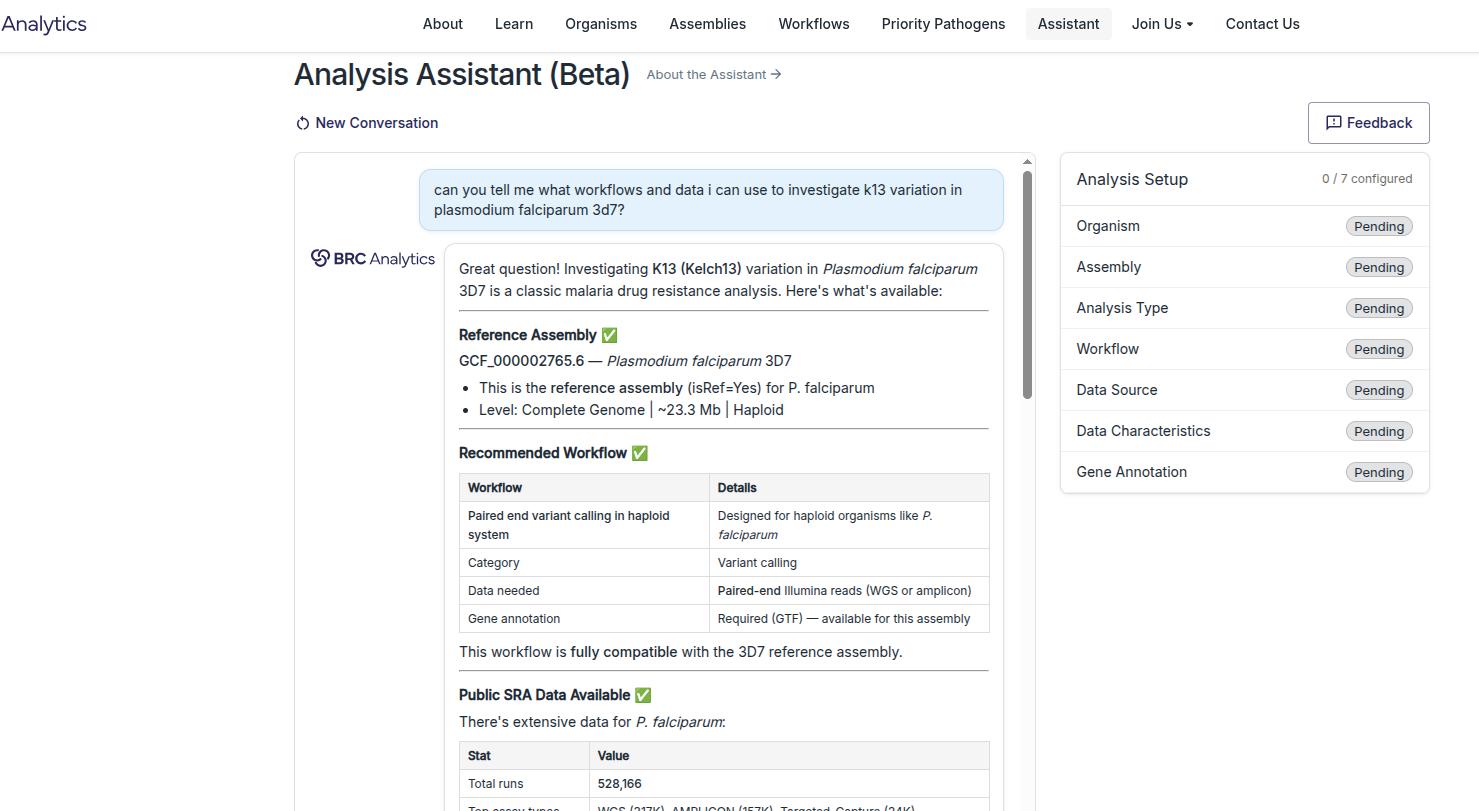
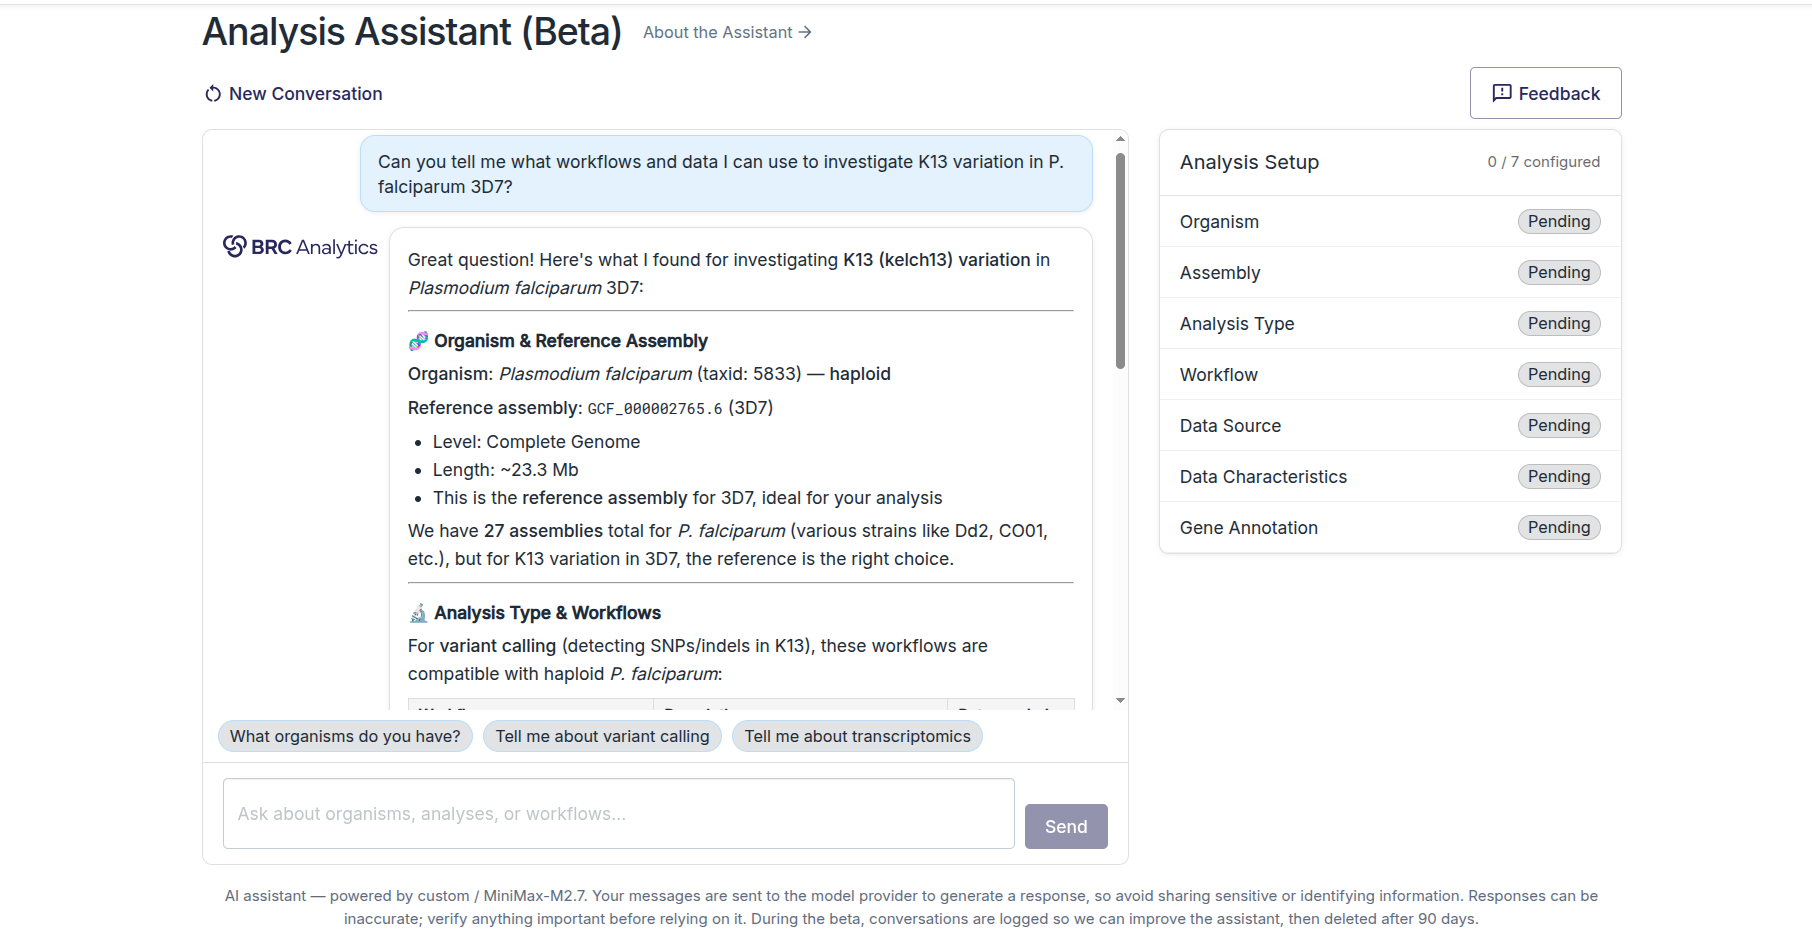
AI deck: swap in zoomed session captures, 2-slide vignette (ask + refine w/ checklist)

diff --git a/astmh-ai-tools-slides.html b/astmh-ai-tools-slides.html
@@ -736,62 +736,39 @@
 
     <!-- ============ 6. Assistant vignette ============ -->
     <section>
-      <div class="slide">
+      <div class="slide" style="padding-top: 45px;">
         <h2 class="slide-title" style="margin-bottom: 8px;">What a Session Looks Like</h2>
         <div class="title-divider" style="margin-bottom: 10px;"></div>
 
-        <div style="display: flex; align-items: center; gap: 24px;">
-          <div style="flex: 1; min-width: 0;">
-            <img src="assistant-session-1.png" alt="BRC Analysis Assistant session — K13 variation in P. falciparum" style="width: 100%; border: 1px solid #DDD; border-radius: 8px; box-shadow: 0 2px 12px rgba(0,0,0,0.08);" />
-          </div>
-          <p class="small" style="flex: 0 0 250px; margin: 0; font-size: 15px; line-height: 1.6;"><strong>A real captured session</strong> — a plain question about K13 variation in <em>P. falciparum</em> 3D7 returns the reference assembly, a compatible variant-calling workflow, and SRA data options.</p>
+        <div style="display: flex; flex-direction: column; align-items: center; gap: 14px;">
+          <img src="assistant-session-1.png" alt="BRC Analysis Assistant session — K13 variation in P. falciparum" style="display: block; margin: 0 auto; max-height: 540px; width: auto; max-width: 100%; border: 1px solid #DDD; border-radius: 8px; box-shadow: 0 2px 12px rgba(0,0,0,0.08);" />
+          <p class="small" style="margin: 0; font-size: 15px;"><strong>A real captured session</strong> — a plain question about K13 variation in <em>P. falciparum</em> 3D7 returns the organism, the right reference assembly out of 27, and compatible workflows — the setup checklist on the right tracks what's still to decide.</p>
         </div>
 
         <img src="brc-logo.png" class="slide-logo" alt="BRC Analytics" />
         <div class="slide-footer">Analysis Assistant</div>
       </div>
-      <aside class="notes">Real session, not a mock. Beat one: the opening question — 'what workflows and data can I use to investigate K13 variation in P. falciparum 3D7?' The assistant comes back with the 3D7 reference assembly, a paired-end variant-calling workflow built for haploid organisms, and notes there's extensive public SRA data. Point at the Analysis Setup checklist on the right — it fills in as the conversation goes.</aside>
+      <aside class="notes">Real session, actual site. The opening question — K13 variation in P. falciparum 3D7 — gets organism confirmation, the right reference assembly (of 27 available), and the start of the workflow recommendation. Point at the Analysis Setup panel: 0/7 configured at the start — it fills in as the conversation decides things. The powered-by line at the bottom is worth a sentence for the skeptics: the model is named, the data handling is stated.</aside>
     </section>
 
     <!-- ============ 7. Assistant vignette II ============ -->
     <section>
-      <div class="slide">
+      <div class="slide" style="padding-top: 45px;">
         <h2 class="slide-title" style="margin-bottom: 8px;">What a Session Looks Like</h2>
         <div class="title-divider" style="margin-bottom: 10px;"></div>
 
-        <div style="display: flex; align-items: center; gap: 24px;">
-          <div style="flex: 1; min-width: 0;">
-            <img src="assistant-session-2.png" alt="BRC Analysis Assistant — follow-up on MalariaGEN BioProject" style="width: 100%; border: 1px solid #DDD; border-radius: 8px; box-shadow: 0 2px 12px rgba(0,0,0,0.08);" />
-          </div>
-          <p class="small" style="flex: 0 0 250px; margin: 0; font-size: 15px; line-height: 1.6;"><strong>You can keep asking</strong> — for K13 it recommends amplicon and targeted-capture data and names the BioProjects; a follow-up (&ldquo;is PRJEB2136 MalariaGEN?&rdquo;) gets a sourced answer.</p>
+        <div style="display: flex; flex-direction: column; align-items: center; gap: 14px;">
+          <img src="assistant-session-2.png" alt="BRC Analysis Assistant — small test set request, checklist filling in" style="display: block; margin: 0 auto; max-height: 540px; width: auto; max-width: 100%; border: 1px solid #DDD; border-radius: 8px; box-shadow: 0 2px 12px rgba(0,0,0,0.08);" />
+          <p class="small" style="margin: 0; font-size: 15px;"><strong>And refine</strong> — &ldquo;a small test set for the suggested workflow?&rdquo; returns concrete runs with sizes and a smallest-first pick — while the checklist moves: workflow and data characteristics, done.</p>
         </div>
 
         <img src="brc-logo.png" class="slide-logo" alt="BRC Analytics" />
         <div class="slide-footer">Analysis Assistant</div>
       </div>
-      <aside class="notes">Beat two — this is a conversation, not a search box. The assistant has already narrowed to amplicon/targeted-capture data for K13 and named the big surveillance BioProjects (PRJEB2136, PRJEB2141, PRJNA983279). The user checks its work — 'is PRJEB2136 MalariaGEN?' — and it confirms with the study accession and scale. Follow-up questions are the point of the interface.</aside>
+      <aside class="notes">Same session, further along — the refinement beat. 'A small amount of public data to test the suggested workflow' gets a real table: recent P. falciparum WGS runs from Burkina Faso with sizes, and a smallest-first recommendation for a quick pipeline test. The beat to point at is the right panel: Analysis Setup has moved to 2/7 — Workflow and Data Characteristics done. The checklist is the handoff forming in real time.</aside>
     </section>
 
-    <!-- ============ 8. Assistant vignette III ============ -->
-    <section>
-      <div class="slide">
-        <h2 class="slide-title" style="margin-bottom: 8px;">What a Session Looks Like</h2>
-        <div class="title-divider" style="margin-bottom: 10px;"></div>
-
-        <div style="display: flex; align-items: center; gap: 24px;">
-          <div style="flex: 1; min-width: 0;">
-            <img src="assistant-session-3.png" alt="BRC Analysis Assistant — small test set request" style="width: 100%; border: 1px solid #DDD; border-radius: 8px; box-shadow: 0 2px 12px rgba(0,0,0,0.08);" />
-          </div>
-          <p class="small" style="flex: 0 0 250px; margin: 0; font-size: 15px; line-height: 1.6;"><strong>And refine</strong> — &ldquo;a small test set first?&rdquo; returns concrete accessions in a table — plus the better suggestion: amplicon runs test the same pipeline on a fraction of the bytes.</p>
-        </div>
-
-        <img src="brc-logo.png" class="slide-logo" alt="BRC Analytics" />
-        <div class="slide-footer">Analysis Assistant</div>
-      </div>
-      <aside class="notes">Beat three — refinement. 'Can I pull a small test set rather than the entire thing?' gets a real table of accessions with platforms and sizes — and then the assistant pushes back usefully: WGS runs are 2–4 GBases each, so for a quick pipeline test it suggests amplicon runs from the same BioProject instead. That is a collaborator's answer, not a search engine's.</aside>
-    </section>
-
-    <!-- ============ 9. MCP: two servers ============ -->
+    <!-- ============ 8. MCP: two servers ============ -->
     <section>
       <div class="slide">
         <h2 class="slide-title">MCP — Two Servers: What vs Where</h2>
@@ -835,7 +812,7 @@
       <aside class="notes">For the already-bought-in crowd: keep your client — Claude Code, Codex, Antigravity, or a local model. BRC MCP is hosted + public; Galaxy MCP installs via uvx and points at a Galaxy instance. The guardrail is that BRC curation — not just raw tools — is what the agent sees.</aside>
     </section>
 
-    <!-- ============ 10. Orbit ============ -->
+    <!-- ============ 9. Orbit ============ -->
     <section>
       <div class="slide">
         <h2 class="slide-title">Orbit — Agentic Workbench with a Paper Trail</h2>
@@ -874,7 +851,7 @@
       <aside class="notes">Orbit is the local-harness door — verifiable agentic science on your own machine, your own LLM. Human approval at every gate.</aside>
     </section>
 
-    <!-- ============ 11. What verification caught ============ -->
+    <!-- ============ 10. What verification caught ============ -->
     <section>
       <div class="slide">
         <h2 class="slide-title">What Verification Actually Caught</h2>
@@ -917,7 +894,7 @@
       <aside class="notes">Payoff slide — verification isn't abstract virtue; it caught real problems in real published studies.</aside>
     </section>
 
-    <!-- ============ 12. Where the three fit ============ -->
+    <!-- ============ 11. Where the three fit ============ -->
     <section>
       <div class="slide">
         <h2 class="slide-title">Where the Three Fit</h2>
@@ -974,7 +951,7 @@
       <aside class="notes">One-line summary per door: who it's for, what it touches, what it records.</aside>
     </section>
 
-    <!-- ============ 13. Takeaways ============ -->
+    <!-- ============ 12. Takeaways ============ -->
     <section>
       <div class="slide">
         <h2 class="slide-title">Takeaways</h2>
